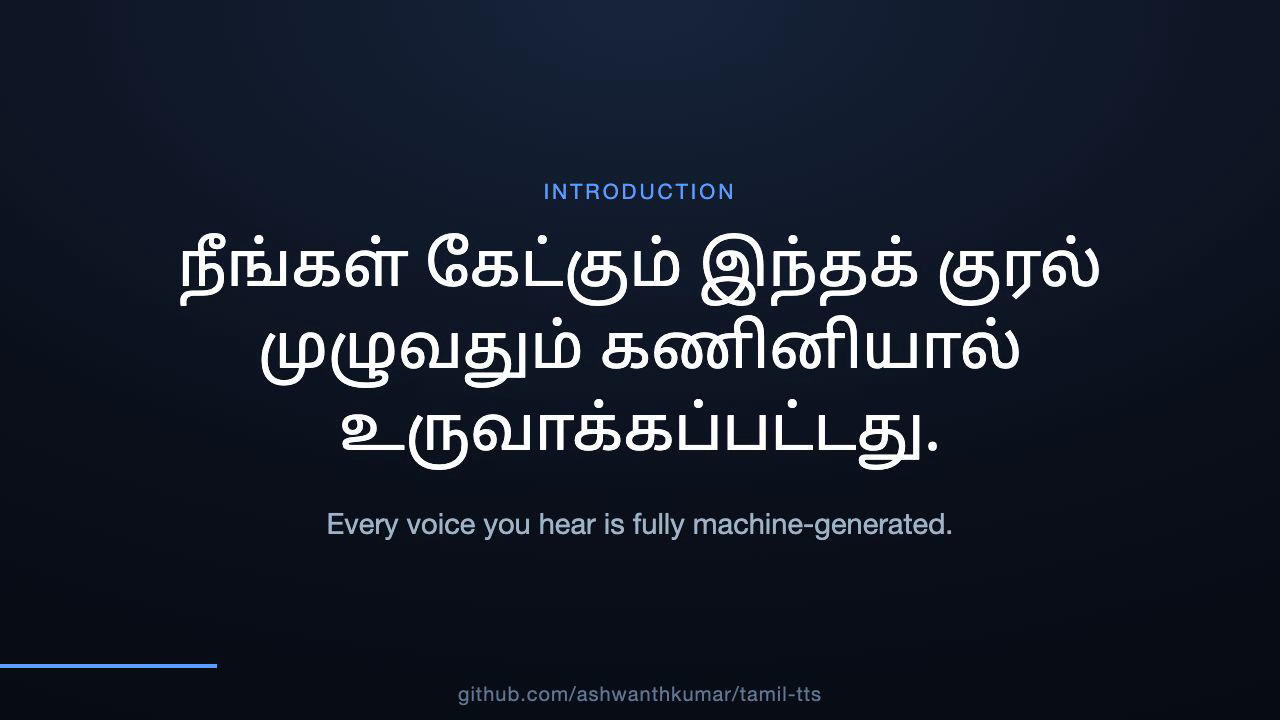
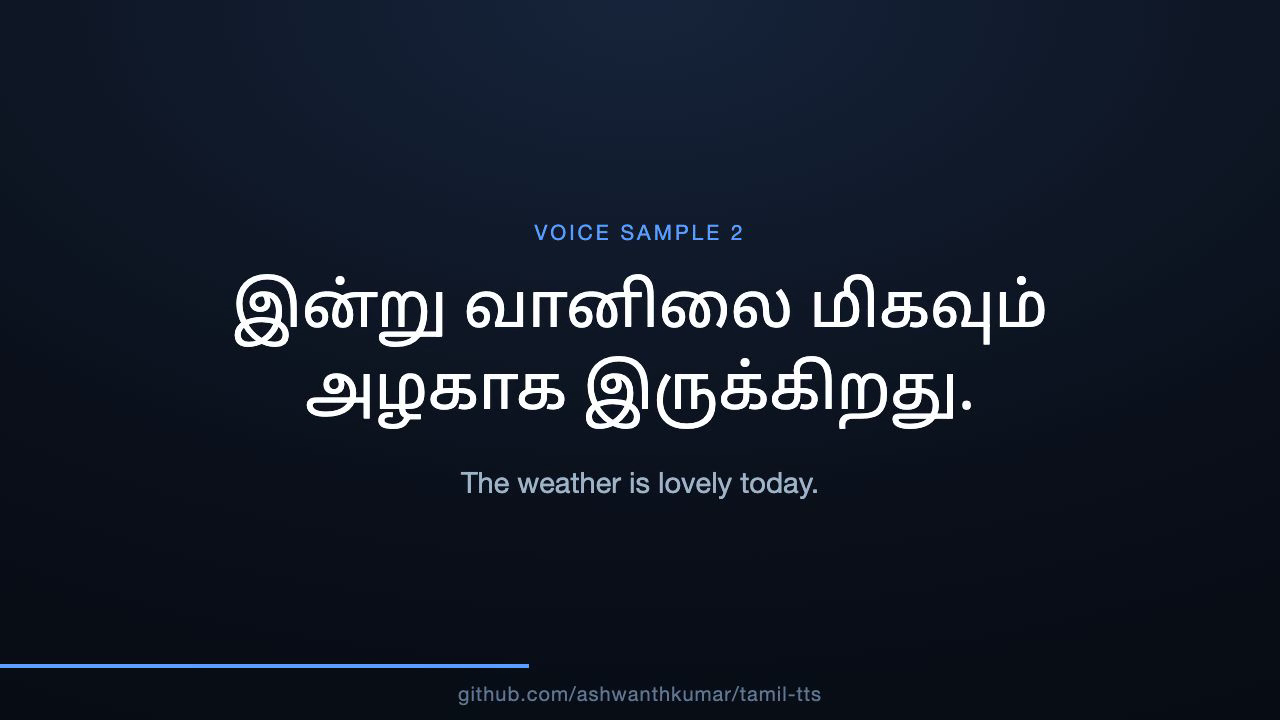
intro video: drop the "Introduction" label on intro segments

Changed region(s): [[0.125, 0.3056, 0.875, 0.7639], [0.1562, 0.9167, 0.4062, 0.9472], [0.4062, 0.2444, 0.5938, 0.275]]

diff --git a/videos/intro/src/Intro.tsx b/videos/intro/src/Intro.tsx
@@ -31,11 +31,13 @@ const Segment: React.FC<{seg: Seg; index: number}> = ({seg, index}) => {
     <Sequence from={seg.start} durationInFrames={seg.dur + 16}>
       <Audio src={staticFile(seg.file)} />
       <AbsoluteFill style={{justifyContent: 'center', alignItems: 'center', padding: 96}}>
-        <FadeUp at={3}>
-          <div style={{fontFamily: SANS, fontSize: 21, color: ACCENT, letterSpacing: 3, textTransform: 'uppercase', marginBottom: 26}}>
-            {intro ? 'Introduction' : `Voice sample ${index - N_INTRO + 1}`}
-          </div>
-        </FadeUp>
+        {!intro && (
+          <FadeUp at={3}>
+            <div style={{fontFamily: SANS, fontSize: 21, color: ACCENT, letterSpacing: 3, textTransform: 'uppercase', marginBottom: 26}}>
+              {`Voice sample ${index - N_INTRO + 1}`}
+            </div>
+          </FadeUp>
+        )}
         <FadeUp at={6}>
           <div style={{fontFamily: tamilFont, fontSize: 62, color: 'white', textAlign: 'center', lineHeight: 1.32, maxWidth: 1060, textWrap: 'balance'}}>
             {seg.tamil}